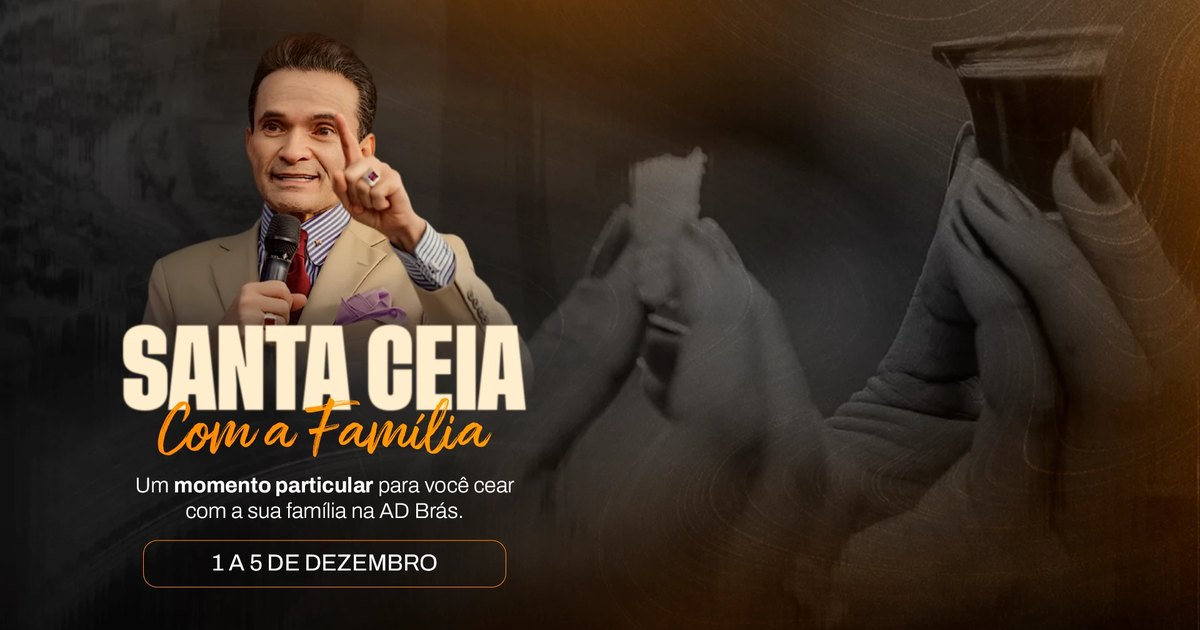
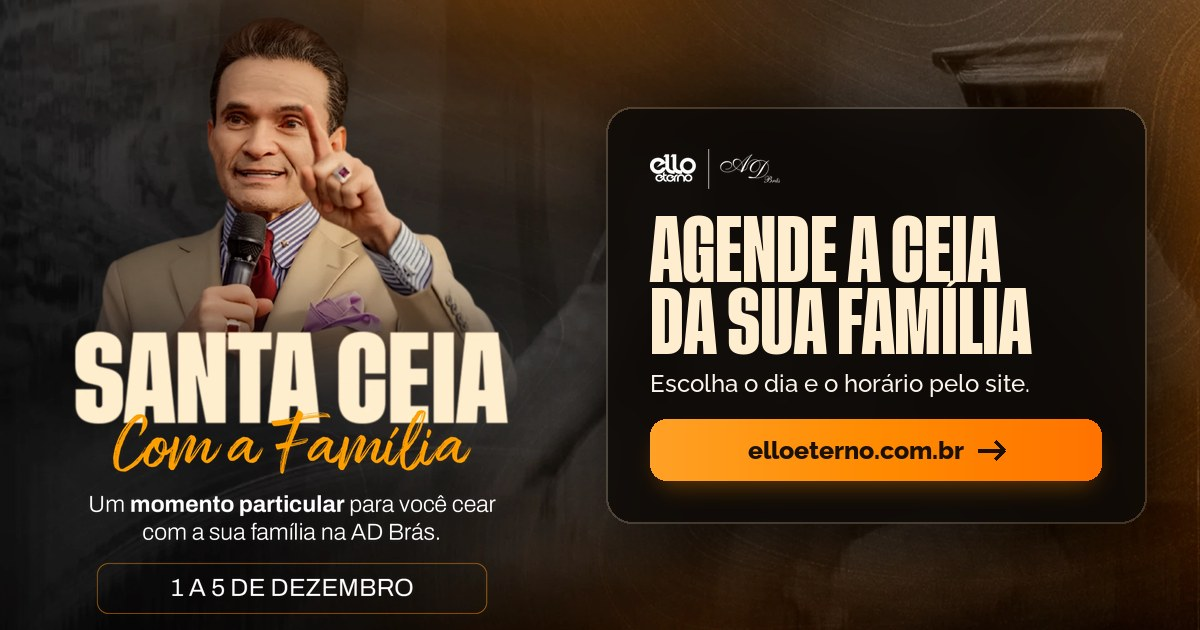
Nova imagem de compartilhamento e SEO
- og-santa-ceia.jpg refeita com as camadas da arte: pastor com título à
  esquerda e cartão com logo, "Agende a ceia da sua família" e o endereço
- tags: título mais curto, descrição, robots, imagem com ?v=2, tipo e
  texto alternativo, tags do X
- dados estruturados do evento (JSON-LD), robots.txt e sitemap.xml

diff --git a/index.html b/index.html
@@ -3,22 +3,62 @@
 <head>
   <meta charset="utf-8">
   <meta name="viewport" content="width=device-width, initial-scale=1, viewport-fit=cover">
-  <title>Santa Ceia com a Família · 1 a 5 de dezembro · Ello Eterno | AD Brás</title>
-  <meta name="description" content="Um momento particular para você cear com a sua família na AD Brás. De 1 a 5 de dezembro: escolha o dia e o horário da sua família.">
+  <title>Santa Ceia com a Família · 1 a 5 de dezembro · AD Brás</title>
+  <meta name="description" content="Um momento particular para você cear com a sua família na AD Brás. De 1 a 5 de dezembro: agende pelo site o dia e o horário da sua família.">
+  <meta name="robots" content="index, follow, max-image-preview:large">
   <meta name="theme-color" content="#000000">
   <link rel="canonical" href="https://elloeterno.com.br/">
 
+  <!-- compartilhamento (WhatsApp, Instagram, Facebook, X). Ao trocar a imagem, mude o ?v= para as redes buscarem de novo -->
   <meta property="og:type" content="website">
   <meta property="og:locale" content="pt_BR">
   <meta property="og:site_name" content="Ello Eterno · AD Brás">
   <meta property="og:title" content="Santa Ceia com a Família · 1 a 5 de dezembro">
-  <meta property="og:description" content="Um momento particular para você cear com a sua família na AD Brás. Escolha o dia e o horário.">
+  <meta property="og:description" content="Um momento particular para você cear com a sua família na AD Brás. Agende pelo site o dia e o horário da sua família.">
   <meta property="og:url" content="https://elloeterno.com.br/">
-  <meta property="og:image" content="https://elloeterno.com.br/assets/img/og-santa-ceia.jpg">
+  <meta property="og:image" content="https://elloeterno.com.br/assets/img/og-santa-ceia.jpg?v=2">
+  <meta property="og:image:secure_url" content="https://elloeterno.com.br/assets/img/og-santa-ceia.jpg?v=2">
+  <meta property="og:image:type" content="image/jpeg">
   <meta property="og:image:width" content="1200">
   <meta property="og:image:height" content="630">
-  <meta property="og:image:alt" content="Santa Ceia com a Família, de 1 a 5 de dezembro, na AD Brás">
+  <meta property="og:image:alt" content="Santa Ceia com a Família na AD Brás, de 1 a 5 de dezembro. Agende a ceia da sua família em elloeterno.com.br">
   <meta name="twitter:card" content="summary_large_image">
+  <meta name="twitter:title" content="Santa Ceia com a Família · 1 a 5 de dezembro">
+  <meta name="twitter:description" content="Um momento particular para você cear com a sua família na AD Brás. Agende pelo site o dia e o horário.">
+  <meta name="twitter:image" content="https://elloeterno.com.br/assets/img/og-santa-ceia.jpg?v=2">
+  <meta name="twitter:image:alt" content="Santa Ceia com a Família na AD Brás, de 1 a 5 de dezembro. Agende a ceia da sua família em elloeterno.com.br">
+
+  <!-- dados estruturados do evento (Google). Endereço só com a cidade: falta a rua da sede -->
+  <script type="application/ld+json">
+  {
+    "@context": "https://schema.org",
+    "@type": "Event",
+    "name": "Santa Ceia com a Família",
+    "description": "Um momento particular para você cear com a sua família na AD Brás. Cada família agenda pelo site um horário de 20 minutos, de 1 a 5 de dezembro.",
+    "startDate": "2026-12-01T19:00:00-03:00",
+    "endDate": "2026-12-05T12:00:00-03:00",
+    "eventStatus": "https://schema.org/EventScheduled",
+    "eventAttendanceMode": "https://schema.org/OfflineEventAttendanceMode",
+    "inLanguage": "pt-BR",
+    "url": "https://elloeterno.com.br/",
+    "image": ["https://elloeterno.com.br/assets/img/og-santa-ceia.jpg?v=2"],
+    "location": {
+      "@type": "Place",
+      "name": "AD Brás · Assembleia de Deus no Brás",
+      "address": {
+        "@type": "PostalAddress",
+        "addressLocality": "São Paulo",
+        "addressRegion": "SP",
+        "addressCountry": "BR"
+      }
+    },
+    "organizer": {
+      "@type": "Organization",
+      "name": "AD Brás",
+      "alternateName": "Assembleia de Deus no Brás"
+    }
+  }
+  </script>
 
   <link rel="icon" type="image/png" sizes="32x32" href="assets/img/favicon-32.png">
   <link rel="icon" type="image/png" sizes="64x64" href="assets/img/favicon-64.png">

diff --git a/README.md b/README.md
@@ -59,7 +59,18 @@ Para ligar de novo do zero (outra planilha, por exemplo):
 
 Se alterar o script: **Implantar → Gerenciar implantações →** lápis → **Versão: Nova versão → Implantar**. A URL continua a mesma.
 
-## 3. Publicação
+## 3. SEO e compartilhamento
+
+O topo do `index.html` tem:
+- título e descrição;
+- tags de compartilhamento para WhatsApp, Instagram, Facebook e X, com a imagem `og-santa-ceia.jpg`;
+- dados estruturados do evento (JSON-LD: nome, datas de 1 a 5 de dezembro e local).
+
+Na raiz do site ficam o `robots.txt` e o `sitemap.xml`.
+
+O local do evento está só com a cidade (São Paulo, SP). Para o Google mostrar o endereço completo, coloque a rua, o número e o CEP da sede em `location.address`, no bloco JSON-LD.
+
+## 4. Publicação
 
 Cada `git push` na `main` atualiza o site (GitHub Pages: *Deploy from a branch* → `main` / raiz).
 
@@ -78,7 +89,11 @@ python -m http.server 5173
 
 ## Créditos
 
-- **Banners:** arte da campanha (`banner-desktop.webp` 1920×1080, usado no tablet, e `banner-mobile.webp` 840×2000). A imagem de compartilhamento (`og-santa-ceia.jpg`) é o banner horizontal recortado em 1200×630.
+- **Banners:** arte da campanha (`banner-desktop.webp` 1920×1080, usado no tablet, e `banner-mobile.webp` 840×2000). A imagem de compartilhamento (`og-santa-ceia.jpg`, 1200×630) junta:
+  - o fundo e o recorte do pastor;
+  - um cartão igual ao do site, com o logo, "Agende a ceia da sua família" (Tusker Grotesk) e o botão elloeterno.com.br.
+  
+  Ao trocar essa imagem, mude o `?v=` dela nas tags do `index.html`, para o WhatsApp e as redes buscarem a nova.
 - **Camadas do computador**, enviadas separadas pela equipe:
   - `fundo-desktop.webp` (1920×1080): só o fundo, sem texto.
   - `heroi-santa-ceia.webp` (876×1159, com transparência): pastor, título, subtítulo e "1 a 5 de dezembro".
